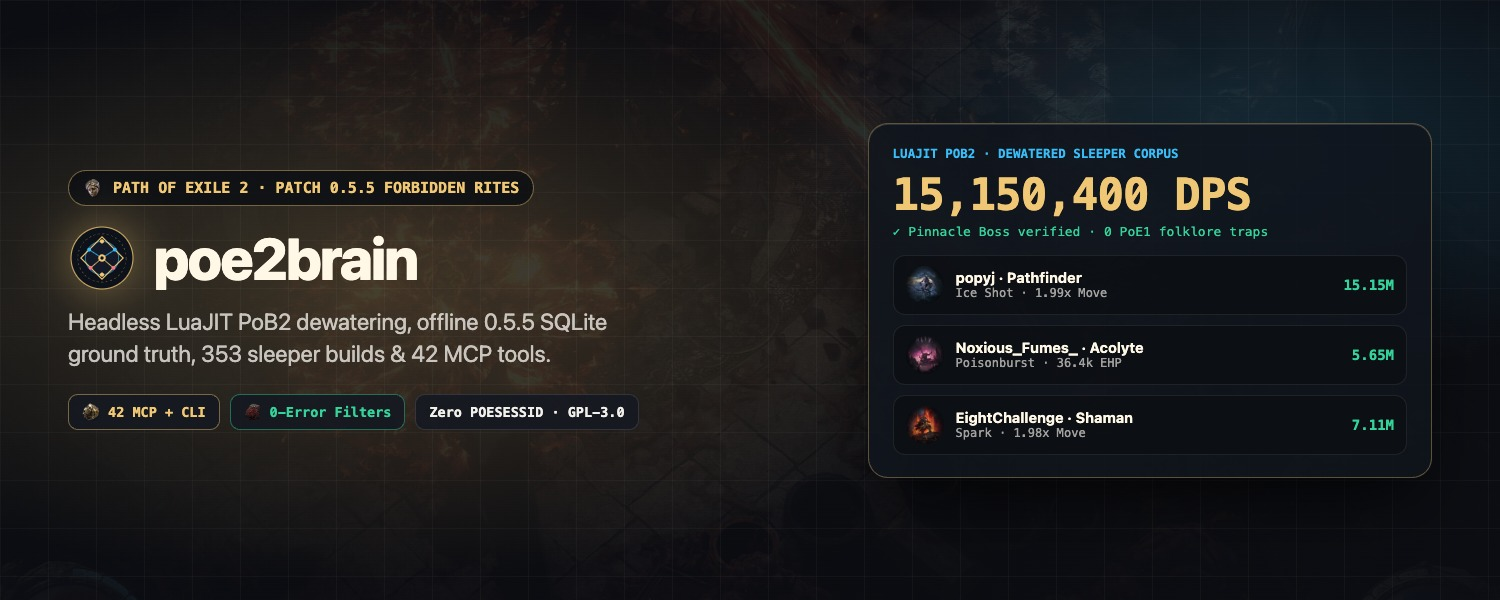
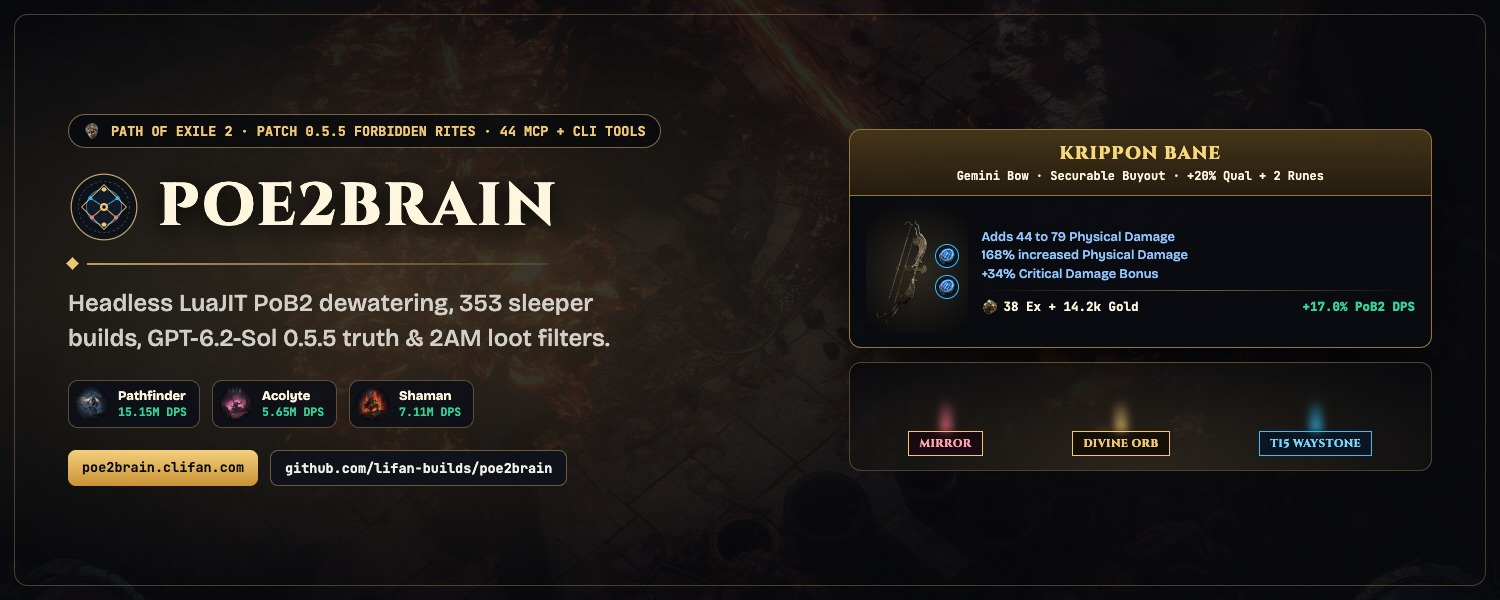
style(poe2brain): unify Cinzel dark-fantasy cover/OG plates and 44 MCP counts

diff --git a/docs/poe2brain/index.html b/docs/poe2brain/index.html
@@ -4,19 +4,19 @@
   <meta charset="utf-8">
   <meta name="viewport" content="width=device-width, initial-scale=1">
   <title>poe2brain — Patch 0.5.5 Path of Exile 2 Intelligence Engine | Lifan Builds</title>
-  <meta name="description" content="Open-source Path of Exile 2 (Patch 0.5.5) intelligence engine pairing headless LuaJIT PoB2 dewatering, 769 official popups, 353 audited sleeper builds, and 42 MCP tools.">
+  <meta name="description" content="Open-source Path of Exile 2 (Patch 0.5.5) intelligence engine pairing headless LuaJIT PoB2 dewatering, 769 official popups, 353 audited sleeper builds, live GPT-6.2-Sol Q&amp;A, and 44 MCP tools.">
   <link rel="canonical" href="https://clifan.com/poe2brain/">
   <link rel="icon" href="../favicon.svg" type="image/svg+xml">
   <link rel="icon" href="../favicon.ico" sizes="32x32">
   <link rel="apple-touch-icon" href="../apple-touch-icon.png">
   <meta property="og:title" content="poe2brain — Real Path of Exile 2 (0.5.5) Math &amp; Headless PoB2 for Players &amp; AI Agents">
-  <meta property="og:description" content="Zero PoE1 hallucinations, zero POESESSID. Live headless PoB2 dewatering, 353 sleeper builds, <=50-char waystone regex, and 0-error loot filters across 42 MCP tools.">
+  <meta property="og:description" content="Zero PoE1 hallucinations, zero POESESSID. Live headless PoB2 dewatering, GPT-6.2-Sol 0.5.5 Q&amp;A, 353 sleeper builds, <=50c waystone regex, and 0-error loot filters across 44 MCP tools.">
   <meta property="og:type" content="website">
   <meta property="og:url" content="https://clifan.com/poe2brain/">
   <meta property="og:image" content="https://clifan.com/poe2brain/og.jpg">
   <meta name="twitter:card" content="summary_large_image">
   <meta name="twitter:title" content="poe2brain — Real Path of Exile 2 (0.5.5) Math &amp; Headless PoB2">
-  <meta name="twitter:description" content="42 MCP tools + CLI + hosted web playground for Patch 0.5.5 Forbidden Rites. Open source under GPL-3.0.">
+  <meta name="twitter:description" content="44 MCP tools + CLI + hosted web playground (poe2brain.clifan.com) for Patch 0.5.5 Forbidden Rites. Open source under GPL-3.0.">
   <meta name="twitter:image" content="https://clifan.com/poe2brain/og.jpg">
   <script>try{if(localStorage.getItem('clifan-theme')!=='light')document.documentElement.setAttribute('data-theme','dark');}catch(_){}</script>
   <link rel="stylesheet" href="../styles.css">
@@ -51,7 +51,7 @@
       <div>
         <p class="status-line">
           <span class="status-indicator" aria-hidden="true"></span>
-          <span>GPL-3.0 OPEN SOURCE · PATCH 0.5.5 · 42 MCP TOOLS + LIVE WEB</span>
+          <span>GPL-3.0 OPEN SOURCE · PATCH 0.5.5 · 44 MCP TOOLS + LIVE WEB</span>
         </p>
         <h1 id="p2-hero-heading">Real PoE2 math. <span class="p2-accent">Zero PoE1&nbsp;hallucinations.</span></h1>
         <p class="subpage-lead">Headless LuaJIT Path of Building 2 dewatering, offline 0.5.5 SQLite ground truth, 353 sleeper builds, and 0-error loot filters—in your browser or MCP&nbsp;agent.</p>
@@ -78,7 +78,7 @@
           <div class="p2-bar-row is-winner" role="listitem">
             <span class="p2-bar-label">poe2brain (0.5.5)</span>
             <div class="p2-bar-track" aria-hidden="true"><div class="p2-bar-fill is-win" style="width: 100%"></div></div>
-            <span class="p2-bar-val">42 tools · PoB2</span>
+            <span class="p2-bar-val">44 tools · PoB2</span>
           </div>
           <div class="p2-bar-row" role="listitem">
             <span class="p2-bar-label">Static Wiki Lookups</span>
@@ -150,7 +150,7 @@ EightChallenge...  Shaman               Spark                9,419,517    7,113,
     <figure class="p2-cover-figure">
       <img src="cover.jpg" width="1500" height="600" alt="poe2brain obsidian and molten gold brand plate featuring the passive astrolabe emblem and Patch 0.5.5 intelligence highlights">
       <figcaption class="p2-cover-caption">
-        <span>Hosted bilingual web workbench at poe2brain.clifan.com + 42 local MCP tools for Claude, Cursor, Antigravity, and Cherry Studio.</span>
+        <span>Hosted bilingual dark-fantasy workbench at poe2brain.clifan.com + 44 local MCP tools for Claude, Cursor, Antigravity, and Cherry Studio.</span>
         <a href="https://poe2brain.clifan.com/">Launch web app ↗</a>
       </figcaption>
     </figure>

diff --git a/docs/site.js b/docs/site.js
@@ -384,7 +384,7 @@ const BUILD_DATA = {
     art: 'poe2brain/cover.jpg',
     repo: 'https://poe2brain.clifan.com/',
     repoLabel: 'Launch poe2brain.clifan.com ↗',
-    summary: 'Agent-native Path of Exile 2 (Patch 0.5.5) intelligence engine pairing headless LuaJIT PoB2 dewatering, offline SQLite ground truth, 353 sleeper builds, and 42 MCP tools.',
+    summary: 'Agent-native Path of Exile 2 (Patch 0.5.5) intelligence engine pairing headless LuaJIT PoB2 dewatering, offline SQLite ground truth, 353 sleeper builds, and 44 MCP tools.',
     pillars: ['local', 'agents', 'eval'],
     diagram: `
       <rect x="6" y="10" width="118" height="48" rx="6" fill="#0b0d12" stroke="#F0C774" stroke-width="1.5"/>
@@ -396,11 +396,11 @@ const BUILD_DATA = {
       <text x="242" y="44" text-anchor="middle" font-family="JetBrains Mono, monospace" font-size="7" fill="#F2F0EA">Dewater · Bottlenecks</text>
       <path d="M322 34 L366 15 M322 34 L366 53" stroke="#34D399" stroke-width="1.6" stroke-dasharray="5 4" class="signal-flow-line"/>
       <rect x="366" y="4" width="148" height="22" rx="4" fill="#0b0d12" stroke="#34D399" stroke-width="1.2"/>
-      <text x="440" y="18" text-anchor="middle" font-family="JetBrains Mono, monospace" font-size="7.1" fill="#34D399">42 MCP + Live Web App</text>
+      <text x="440" y="18" text-anchor="middle" font-family="JetBrains Mono, monospace" font-size="7.1" fill="#34D399">44 MCP + Live Web App</text>
       <rect x="366" y="42" width="148" height="22" rx="4" fill="#0b0d12" stroke="#F0C774" stroke-width="1.2"/>
       <text x="440" y="56" text-anchor="middle" font-family="JetBrains Mono, monospace" font-size="7.1" fill="#F0C774">0-Error Filter · &lt;=50c Regex</text>`,
     metrics: [
-      { val: '42 tools', lbl: '1:1 MCP + CLI + Web' },
+      { val: '44 tools', lbl: '1:1 MCP + CLI + Web' },
       { val: '353 builds', lbl: 'Pre-audited 0.5.5 corpus' },
       { val: '0 POESESSID', lbl: 'Strict GGG ToS boundary' }
     ],
